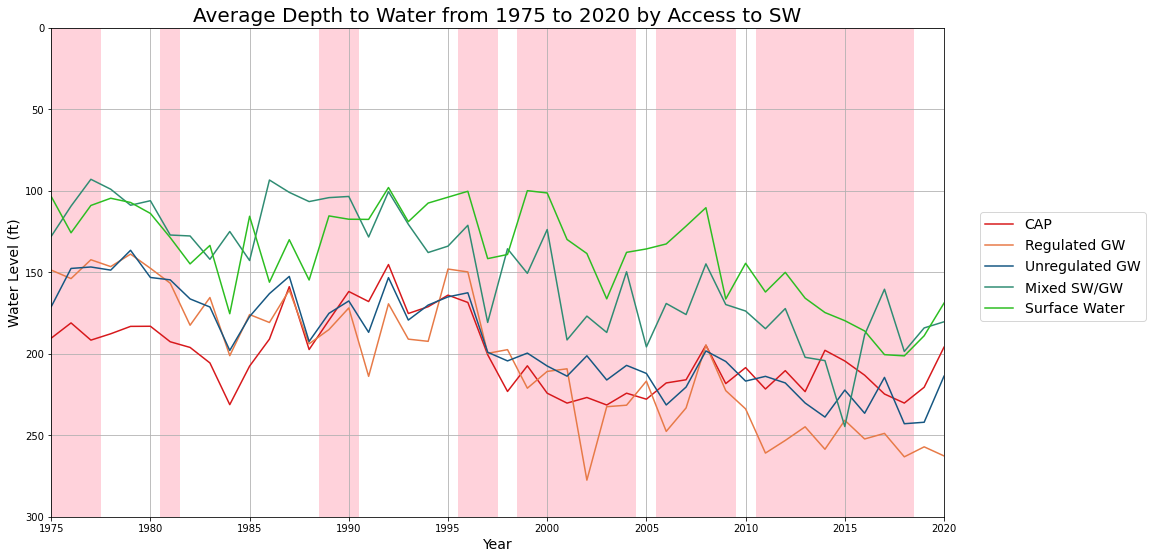
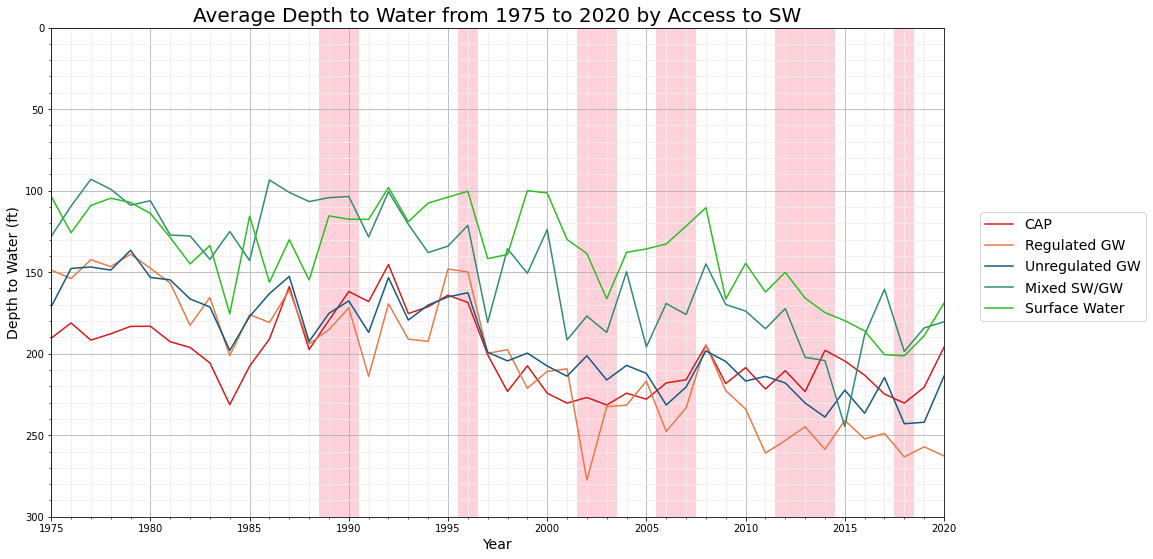
Trying to do box plots, fork me

diff --git a/SummaryCodes/Spatial_Analysis_Wells_FinalGeoreg.py b/SummaryCodes/Spatial_Analysis_Wells_FinalGeoreg.py
@@ -233,6 +233,9 @@ c_11 = '#7adec4' # C - Mixed
 drought_color = '#ffa6b8'
 wet_color = '#b8d3f2'
 
+reg_colors = [c_2,c_7]
+SW_colors = [c_2,c_3,c_4,c_5,c_7]
+
 #%% Plot by Groundwater Regulation
 ds = cat_wl2_reg
 minyear=1975
@@ -339,7 +342,7 @@ plt.savefig(outputpath+name+'_Drought', bbox_inches='tight')
 # plt.savefig(outputpath+name+'_5', bbox_inches='tight')
 
 #%% Plotting individual divisions
-ds = cat_wl2
+ds = cat_wl2_georeg
 minyear=1975
 maxyear=2020
 name = "Average Depth to Water from " + str(minyear) + " to " + str(maxyear)
@@ -1218,17 +1221,75 @@ ax.legend()
 drought_indices = pd.read_csv('../MergedData/Output_files/Yearly_DroughtIndices.csv')
 drought_indices = drought_indices.set_index('In_year')
 drought_indices
+
+# %% Figure out which water level database you want
+# cat_wl2 = cat_wl2_reg.copy()
+cat_wl2 = cat_wl2_SW.copy()
 # %% Water Analysis period
 wlanalysis_period = cat_wl2[cat_wl2.index>=1975]
 wlanalysis_period
 
 # %%
-fig, ax = plt.subplots(1, 1)
-ax.scatter(drought_indices['PDSI'], wlanalysis_period['CAP'],color='grey', lw=1)
+wlanalysis_period['Status'] = 'Other'
+wlanalysis_period
 
-# %% Test Analysis
+# %% 
+Drought_years = [1989,1990,1996,2002,2003,2006,2007,2012,2014,2018]
+
+# %%
+for i in Drought_years:
+        wlanalysis_period.loc[i, 'Status'] = 'Severe'
+
+wlanalysis_period
+
+# %% Severe drought dataframe and normal
+severe = wlanalysis_period[wlanalysis_period['Status']=='Severe']
+severe
+
+other = wlanalysis_period[wlanalysis_period['Status']=='Other']
+other
+
+del severe['Status']
+del other['Status']
+
+# %% Boxplot Stuff
+df = severe
+df2 = severe
+name = 'severe'
+# labels = df.columns.tolist()
+betterlabels = ['CAP','Regulated Groundwater','Surface Water','Unregulated Groundwater','Mixed GW/SW'] 
+
+fig, ax1 = plt.subplots(nrows=1, ncols=1, figsize=(8, 4))
+
+bplot = ax1.boxplot(df,
+                     vert=True,  
+                     patch_artist=True,  
+                     labels=betterlabels
+                     )
+
+# colors = reg_colors
+# colors = SW_colors
+colors = [c_2,c_3,c_4,c_7,c_5]
+
+
+for patch, color in zip(bplot['boxes'], colors):
+    patch.set_facecolor(color)
+
+ax1.set_title(name)
+plt.xticks(rotation=30)
+ax1.set_ylabel('Depth to Water (ft)')
+ax1.grid(visible=True)
+fig.set_dpi(600.0)
+
+# %% Test Analysis against PDSI
 wlanalysis_period['PDSI'] = drought_indices['PDSI']
 wlanalysis_period
+
+# %%
+fig, ax = plt.subplots(1, 1)
+ax.scatter(drought_indices['PDSI'], wlanalysis_period['R'], lw=1)
+
+
 # %% Running the test
 # x_simple = pd.DataFrame([(-2,4),(-1,1),(0,3),(1,2),(2,0)],
 #                         columns=["X","Y"])
@@ -1257,7 +1318,7 @@ ax.plot(ds['R'].shift(lag), label='GW Regulated', color=c_2)
 ax2 = ax.twinx()
 ax2.set_ylabel('PDSI')
 ax2.set_ylim(-7, 10)
-ax2.plot(ds['PDSI'], '-.',label='PDSI', color='grey', lw = 3, zorder=0) 
+# ax2.plot(ds['PDSI'], '-.',label='PDSI', color='grey', lw = 3, zorder=0) 
 
 ax.set_xlim(minyear,maxyear)
 ax.set_ylim(max_y,min_y)
@@ -1295,7 +1356,7 @@ fig.set_dpi(600.0)
 
 # plt.savefig(outputpath+name+'_byregulation', bbox_inches='tight')
 # plt.savefig(outputpath+name+'_byregulation_Drought', bbox_inches='tight')
-plt.savefig(outputpath+name+'_GWReg_Drought', bbox_inches='tight')
+# plt.savefig(outputpath+name+'_GWReg_Drought', bbox_inches='tight')
 
 
 # %%
